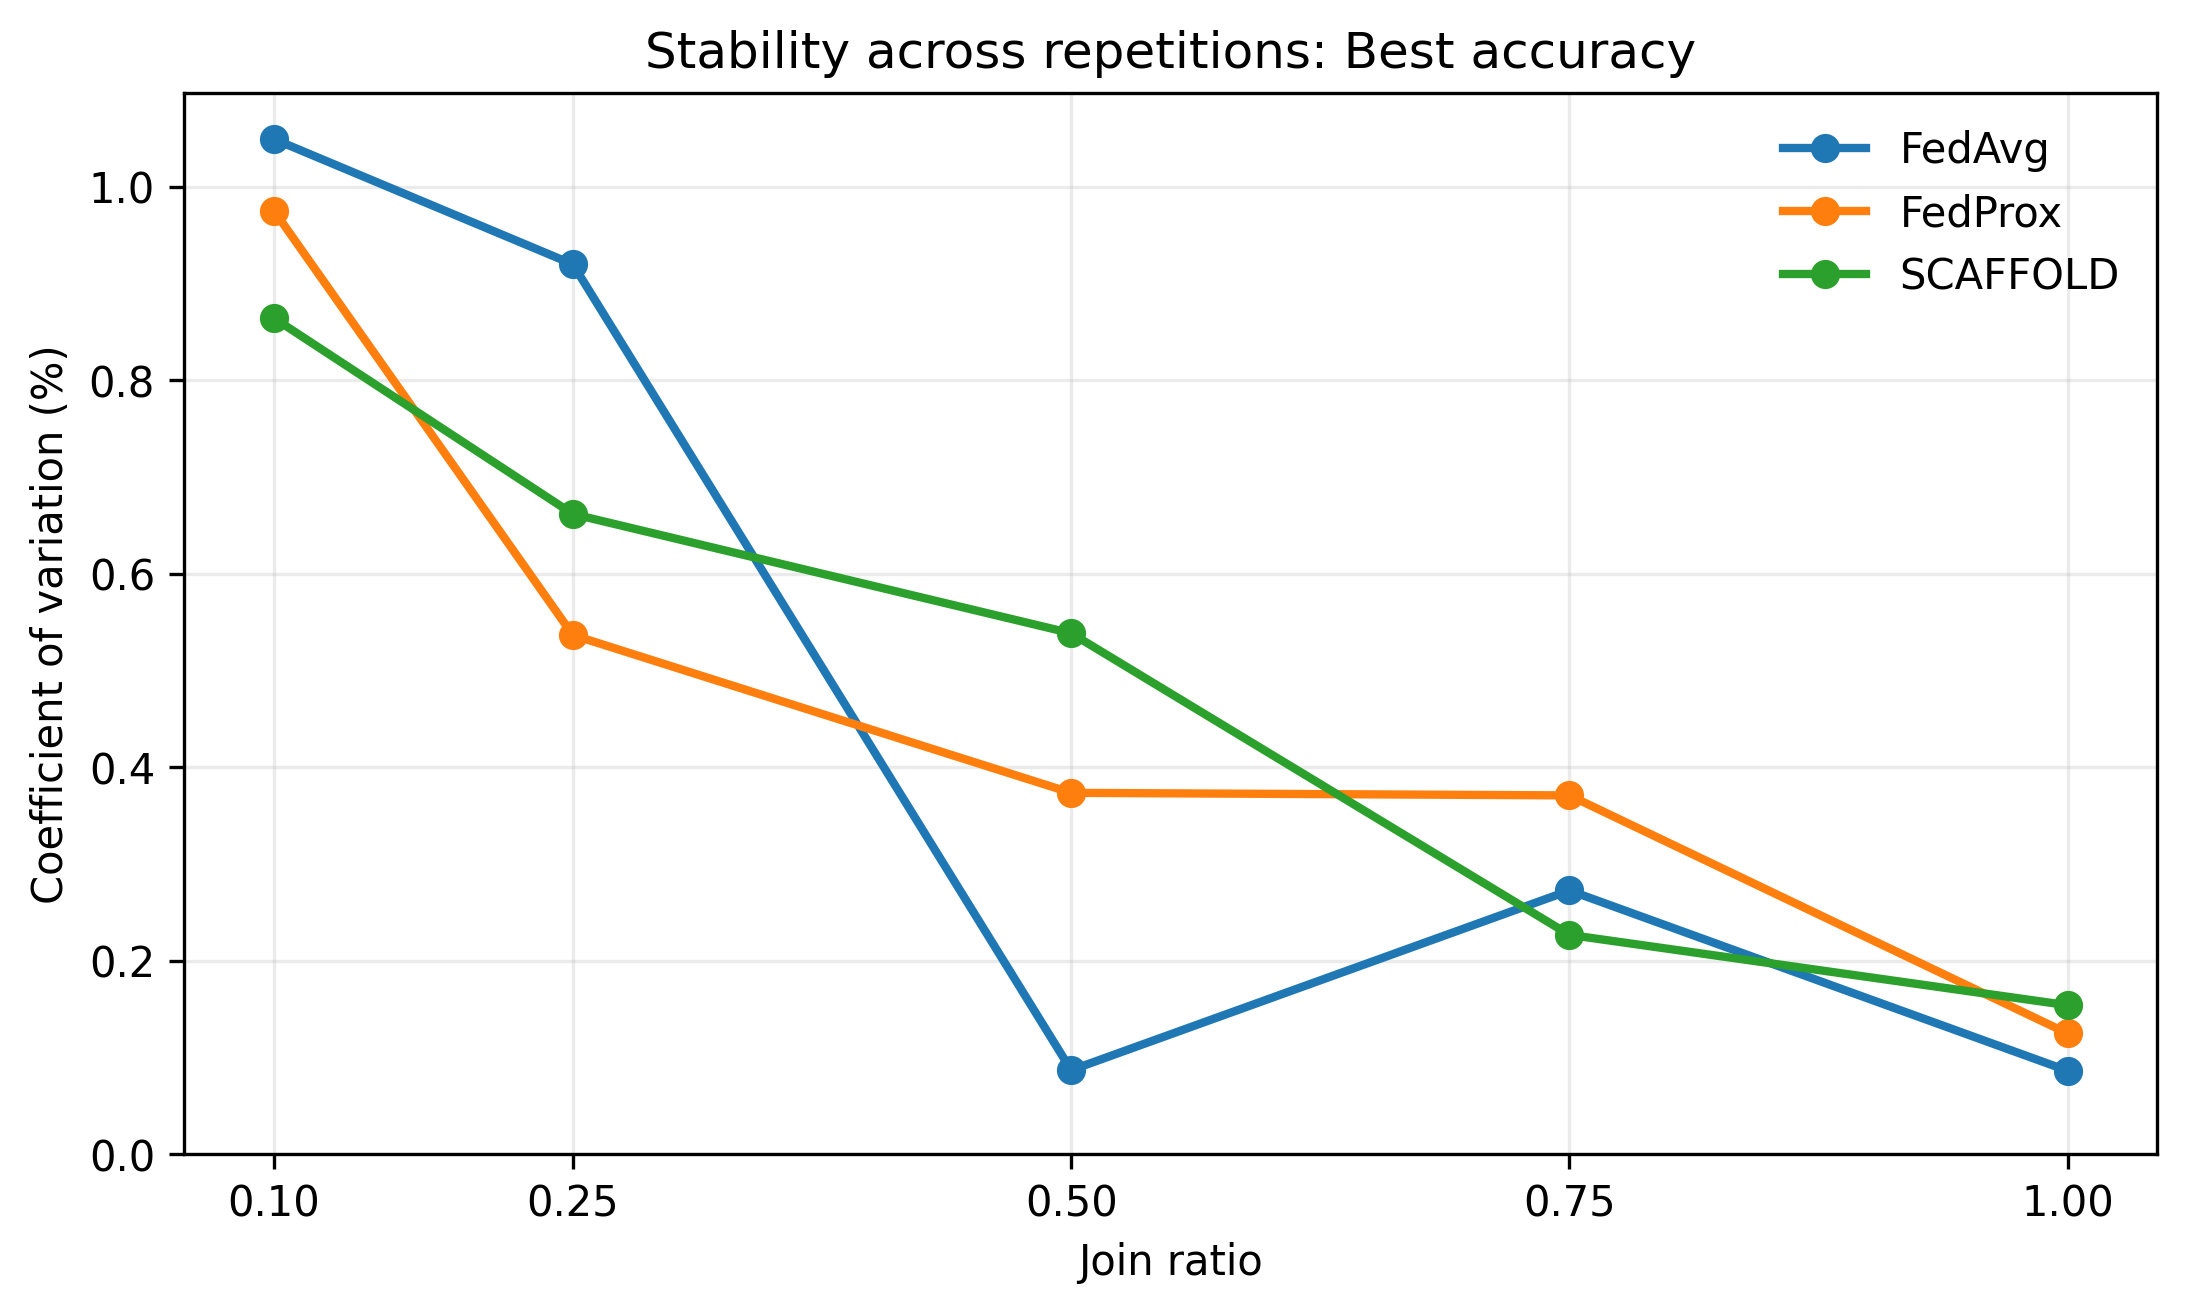
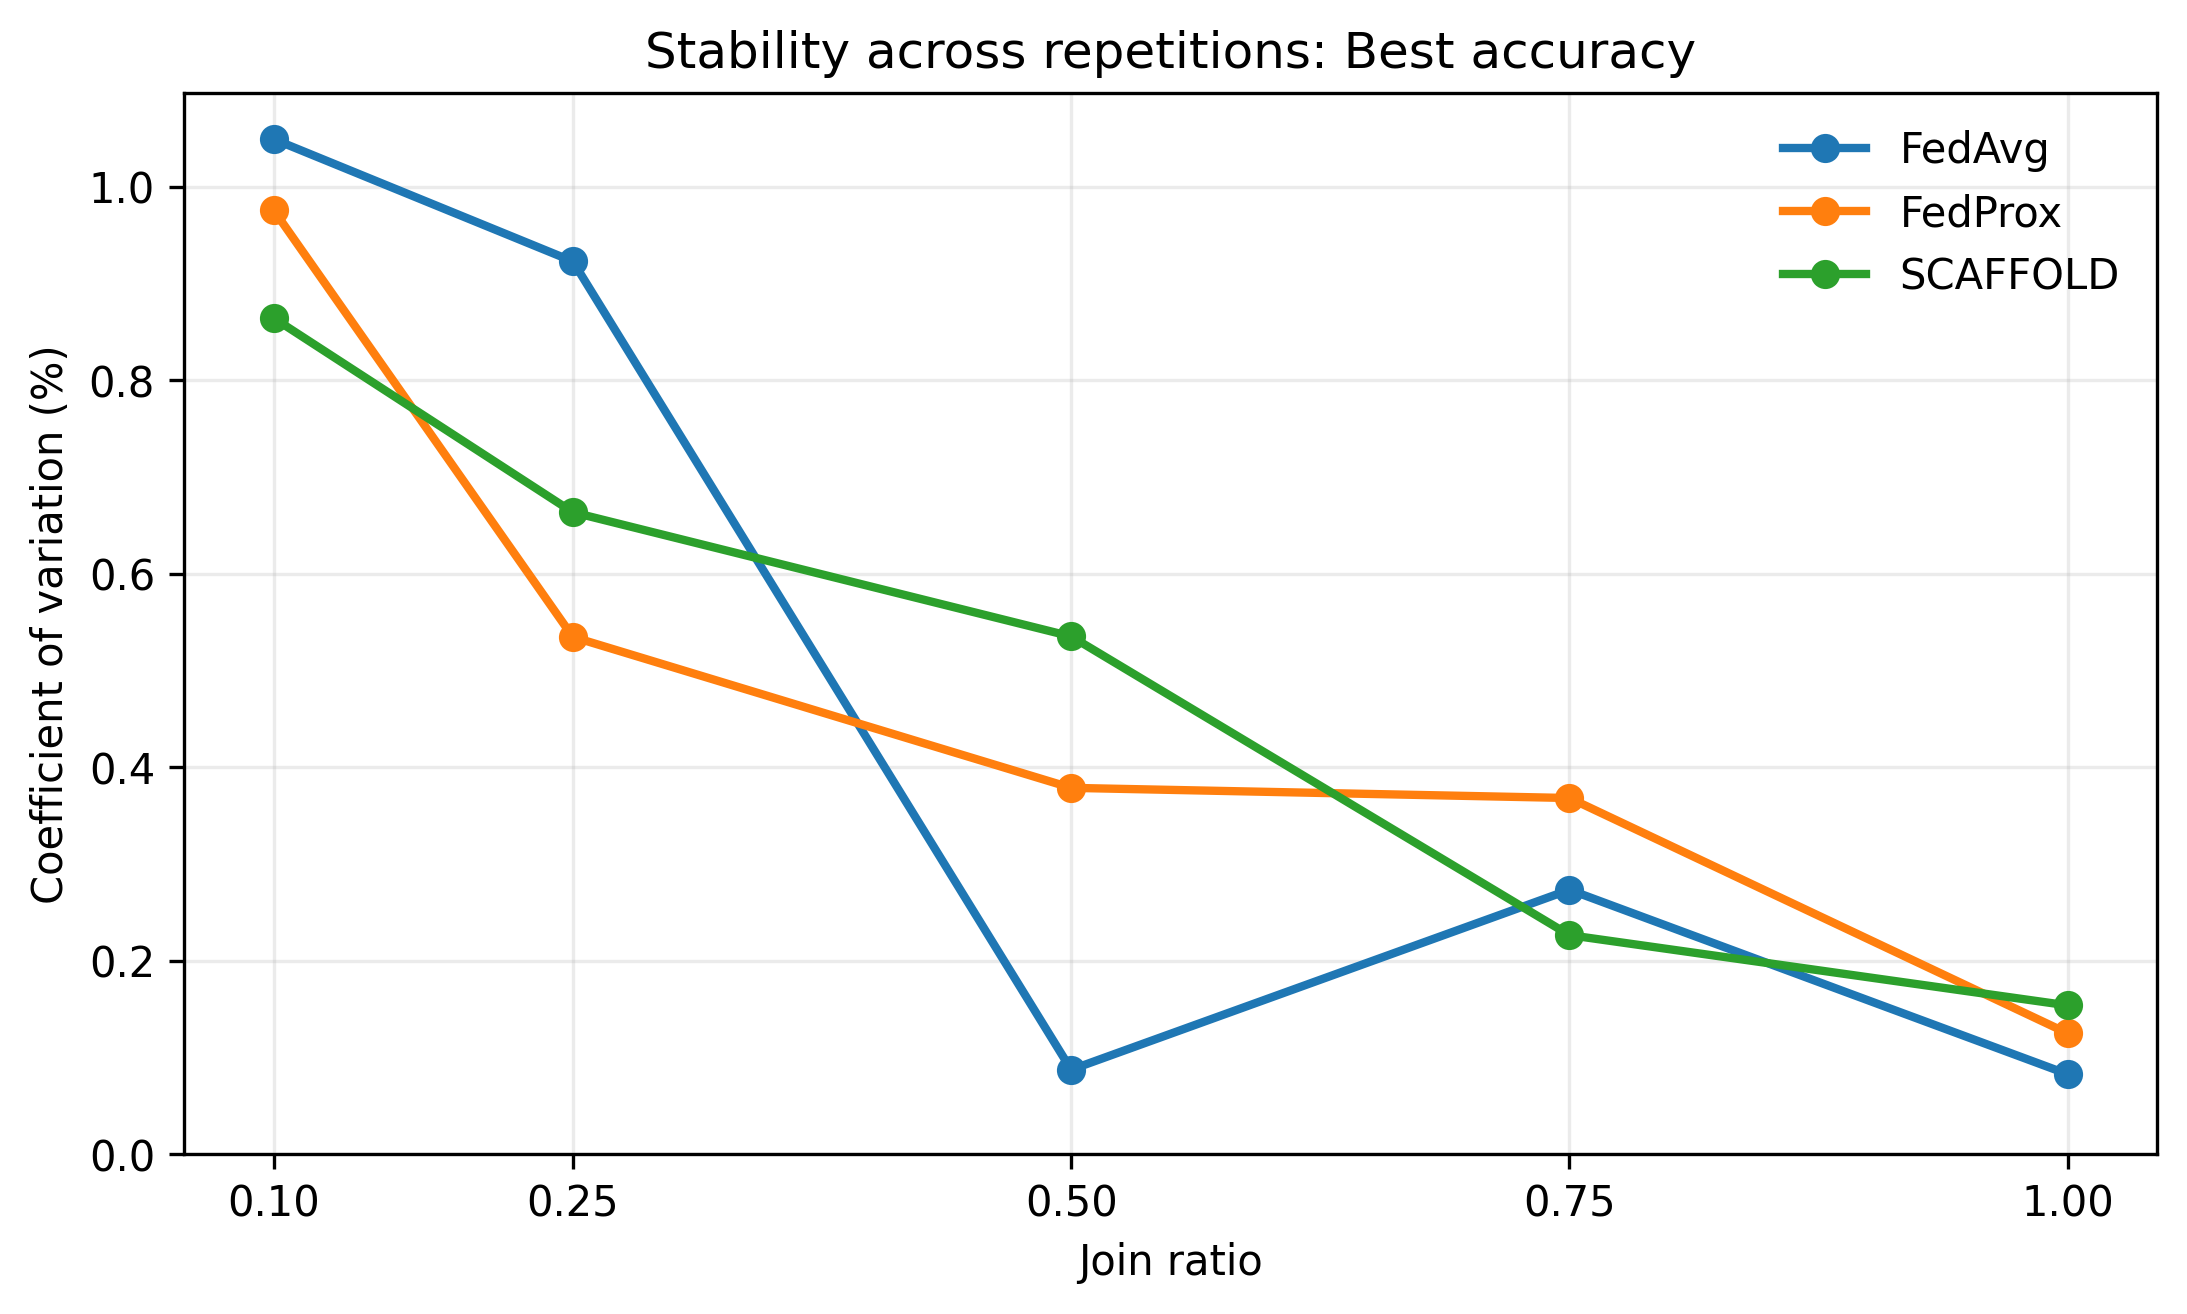
Align stability accuracy with article metric

diff --git a/scripts/analyze_stability.py b/scripts/analyze_stability.py
@@ -47,7 +47,7 @@ def load_runs(path: Path) -> pd.DataFrame:
     repetition = first_column(raw, ["rep", "repetition", "seed"])
     accuracy = first_column(
         raw,
-        ["best_accuracy_from_rounds", "best_accuracy_reported", "best_accuracy"],
+        ["best_accuracy_reported", "best_accuracy_from_rounds", "best_accuracy"],
     )
     time = first_column(
         raw,
